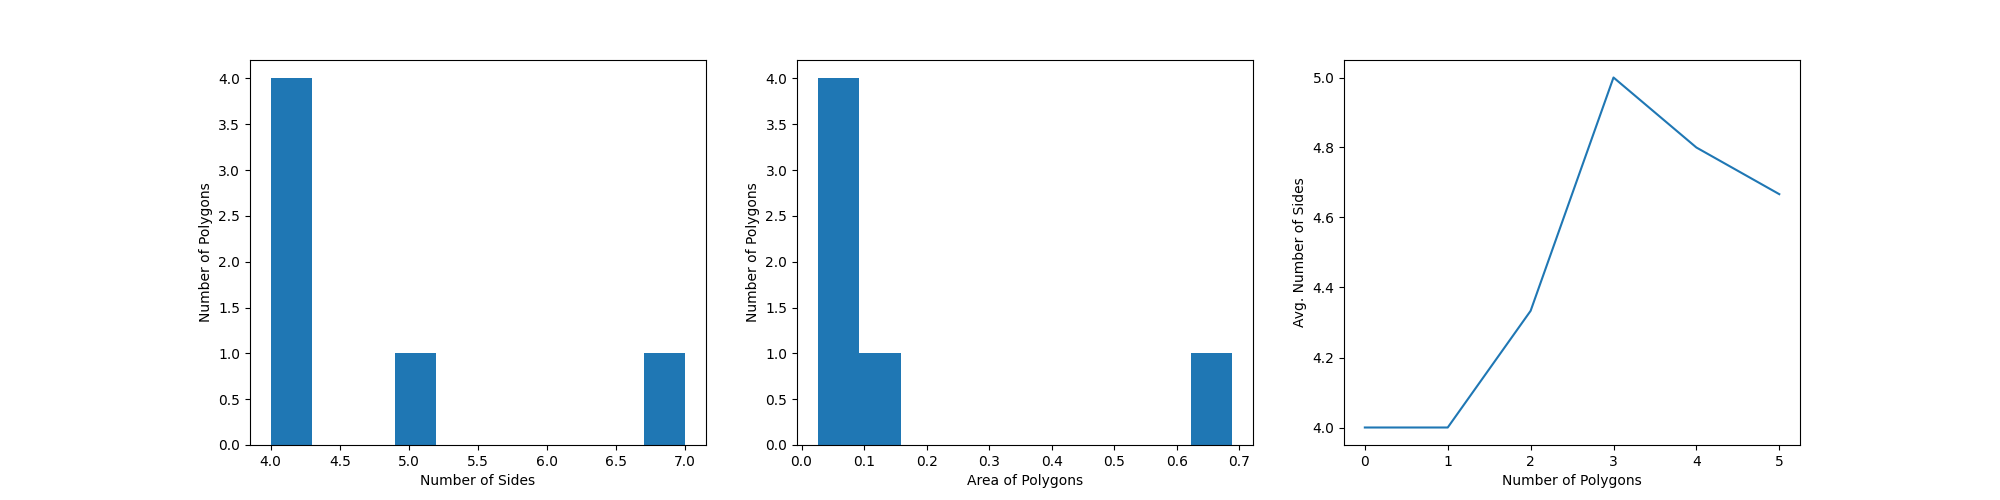
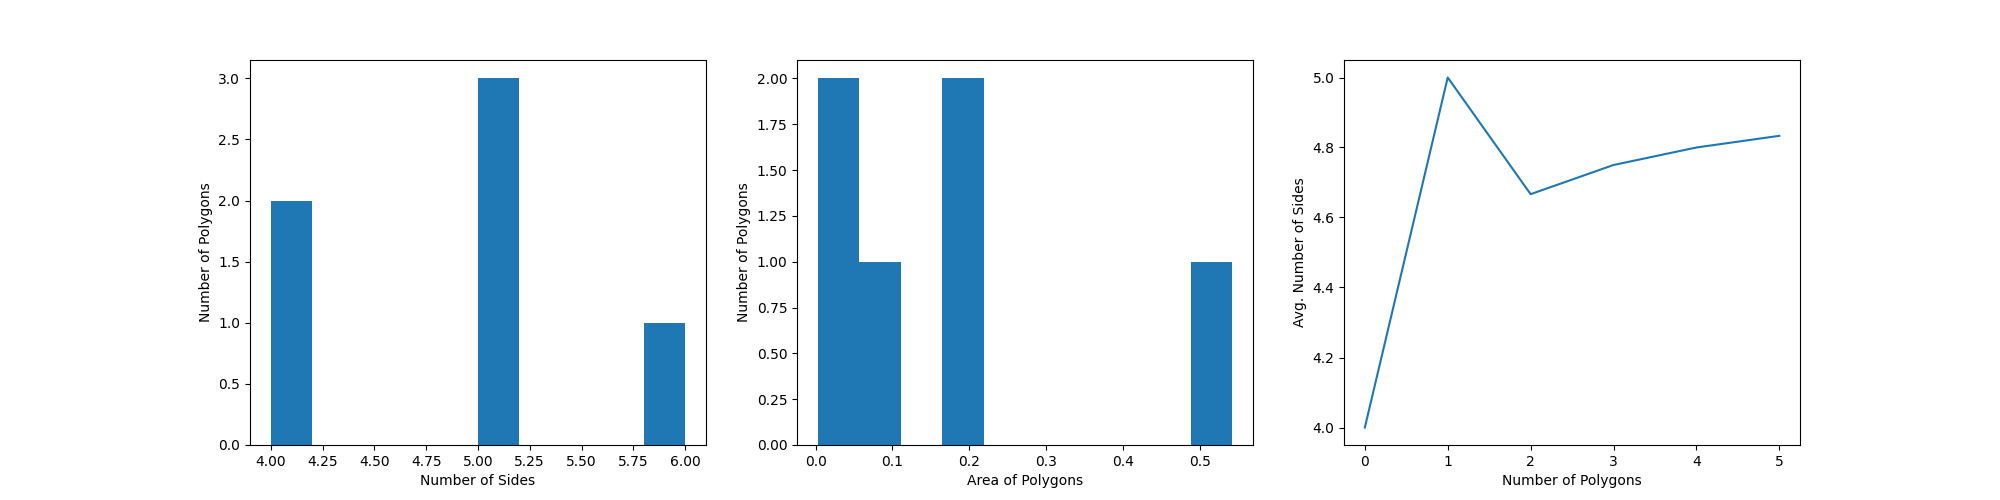
Altering the tolerances for better irregular vertex recognition

diff --git a/PolyDetection.py b/PolyDetection.py
@@ -380,19 +380,7 @@ for k in range(1):
         num_ngons.append(dict(side_counts))
         #print(len(polys), "\n")
     print(f"Polygons after cut:{polys}")
-    listPolySizes=[]
-    listPolyAreas=[]
-    vBarLines=[]
-    for poly in polys:
-        totalverts+=len(poly)
-        listPolySizes.append(len(poly))
-        listPolyAreas.append(areaOfPoly(poly))
-        vBarLines.append(totalverts/len(listPolySizes))    
-    print("Average number of vertices:", totalverts/(len(polys))) 
-    print("Total number of polygons: ", len(polys))
-    indeces=[]
-    for i in range(0,len(listPolyAreas)):
-        indeces.append(i)
+    
 
 
     # Save num_ngons to a file
@@ -418,7 +406,7 @@ for k in range(1):
             # Compute cross product to check colinearity
             cross = (x1 - x0) * (y2 - y0) - (y1 - y0) * (x2 - x0)
             print(f"Cross for {prev_vert, vert, next_vert}: {cross}")
-            is_irregular = 1 if np.isclose(cross, 0, atol=1e-5) else 0
+            is_irregular = 1 if np.isclose(cross, 0, atol=1e-4) else 0
 
             if is_irregular:
                 irregular_count=irregular_count+1
@@ -428,14 +416,30 @@ for k in range(1):
                 vertex_to_polys[vert_key] = []
             vertex_to_polys[vert_key].append((poly_idx, is_irregular))
 
-    print(f"Number of corners: {regular_count/len(polys)}")
+    print(f"Avg. Number of sides: {regular_count/len(polys)}")
     print(f"Number of irreguar vertices: {irregular_count}")
     print(f"Number of regular vertices: {regular_count}")
-    print(f"Average nodal corner degree (x): {(irregular_count+regular_count)/regular_count}")
-    print(f"Average cell corner degree (y): {(len(polys))/regular_count}")
+    print(f"Recip. of Average nodal corner degree (x): {(irregular_count+regular_count)/regular_count}")
+    print(f"Recip. of Average cell corner degree (y): {(len(polys))/regular_count}")
     # Save to JSON
     with open(f"./vertex_to_polys_{k}.json", "w") as f:
         json.dump(vertex_to_polys, f, indent=2)
+
+    # These statics don't work currently after switching to having both regular and irregular vertices, will fix soon
+    listPolySizes=[]
+    listPolyAreas=[]
+    vBarLines=[]
+    for poly in polys:
+        totalverts+=len(poly)
+        listPolySizes.append(len(poly))
+        listPolyAreas.append(areaOfPoly(poly))
+        vBarLines.append(totalverts/len(listPolySizes))    
+    print("Total number of polygons: ", len(polys))
+    indeces=[]
+    for i in range(0,len(listPolyAreas)):
+        indeces.append(i)
+
+
     plt.savefig('Current_Cut.png')
     fig, ax = plt.subplots(1,3, figsize=(20,5))
     ax[0].set_aspect('auto')
